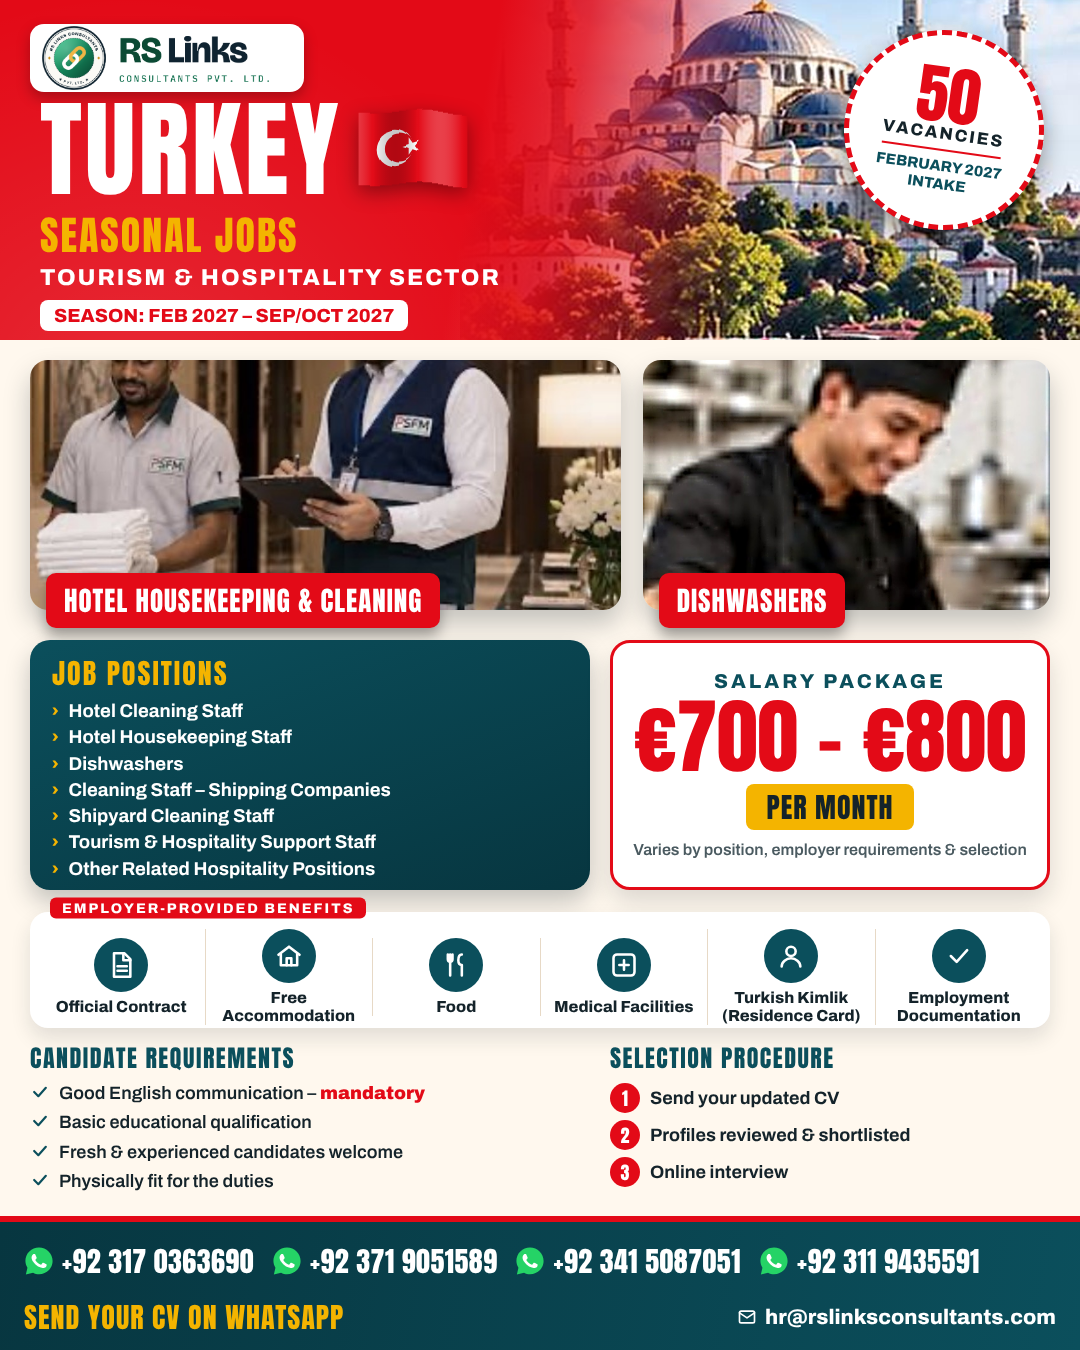
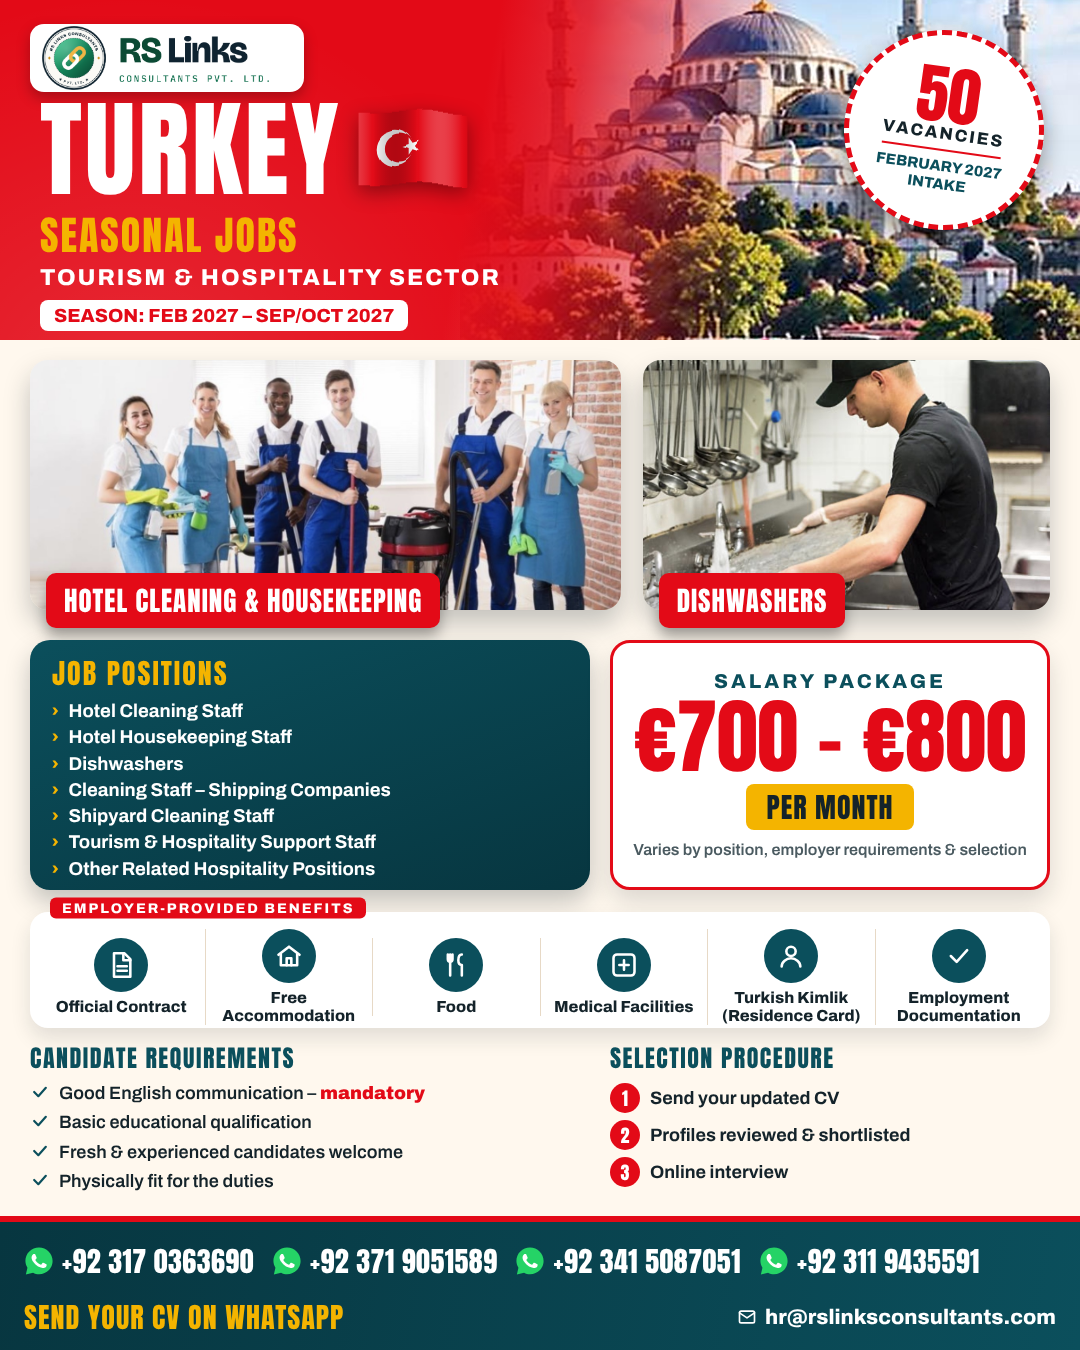
Turkey seasonal ad: user's sharp cleaning-team and dishwasher photos
Claude-Session: https://claude.ai/code/session_01YJ5ofgU8QCiWTsYR9pvXG4

Changed region(s): [[0.0306, 0.2489, 0.9778, 0.4667]]

diff --git a/src/turkey_seasonal_hospitality.py b/src/turkey_seasonal_hospitality.py
@@ -51,7 +51,7 @@ def build():
  <div style='font:400 64px Anton;color:{RED};line-height:.9'>50</div><div style='font:800 17px Archivo;color:{INK};letter-spacing:2px'>VACANCIES</div>
  <div style='width:120px;height:2px;background:{RED};margin:6px 0'></div><div style='font:800 15px Archivo;color:{TEAL};line-height:1.2'>FEBRUARY 2027<br>INTAKE</div></div>
 
-<div class='abs' style='top:360px;left:30px;right:30px;display:flex;gap:22px'>{photo(P("ksa_housekeeping_men.jpg"), "center 30%", "HOTEL HOUSEKEEPING &amp; CLEANING", 1.45)}{photo(P("sa_kitchen_helper_sharp.jpg"), "center 35%", "DISHWASHERS", 1)}</div>
+<div class='abs' style='top:360px;left:30px;right:30px;display:flex;gap:22px'>{photo(P("tr_cleaning_team.jpg"), "center 30%", "HOTEL CLEANING &amp; HOUSEKEEPING", 1.45)}{photo(P("tr_dishwasher.jpg"), "center 35%", "DISHWASHERS", 1)}</div>
 
 <div class='abs' style='top:640px;left:30px;width:560px;height:250px;border-radius:20px;background:linear-gradient(160deg,{TEAL},{TEAL2});padding:12px 22px;box-sizing:border-box;box-shadow:0 12px 24px #14232A40'>
  <div style='font:400 28px Anton;color:{GOLD};letter-spacing:2px;margin-bottom:4px'>JOB POSITIONS</div>{job_li}</div>
